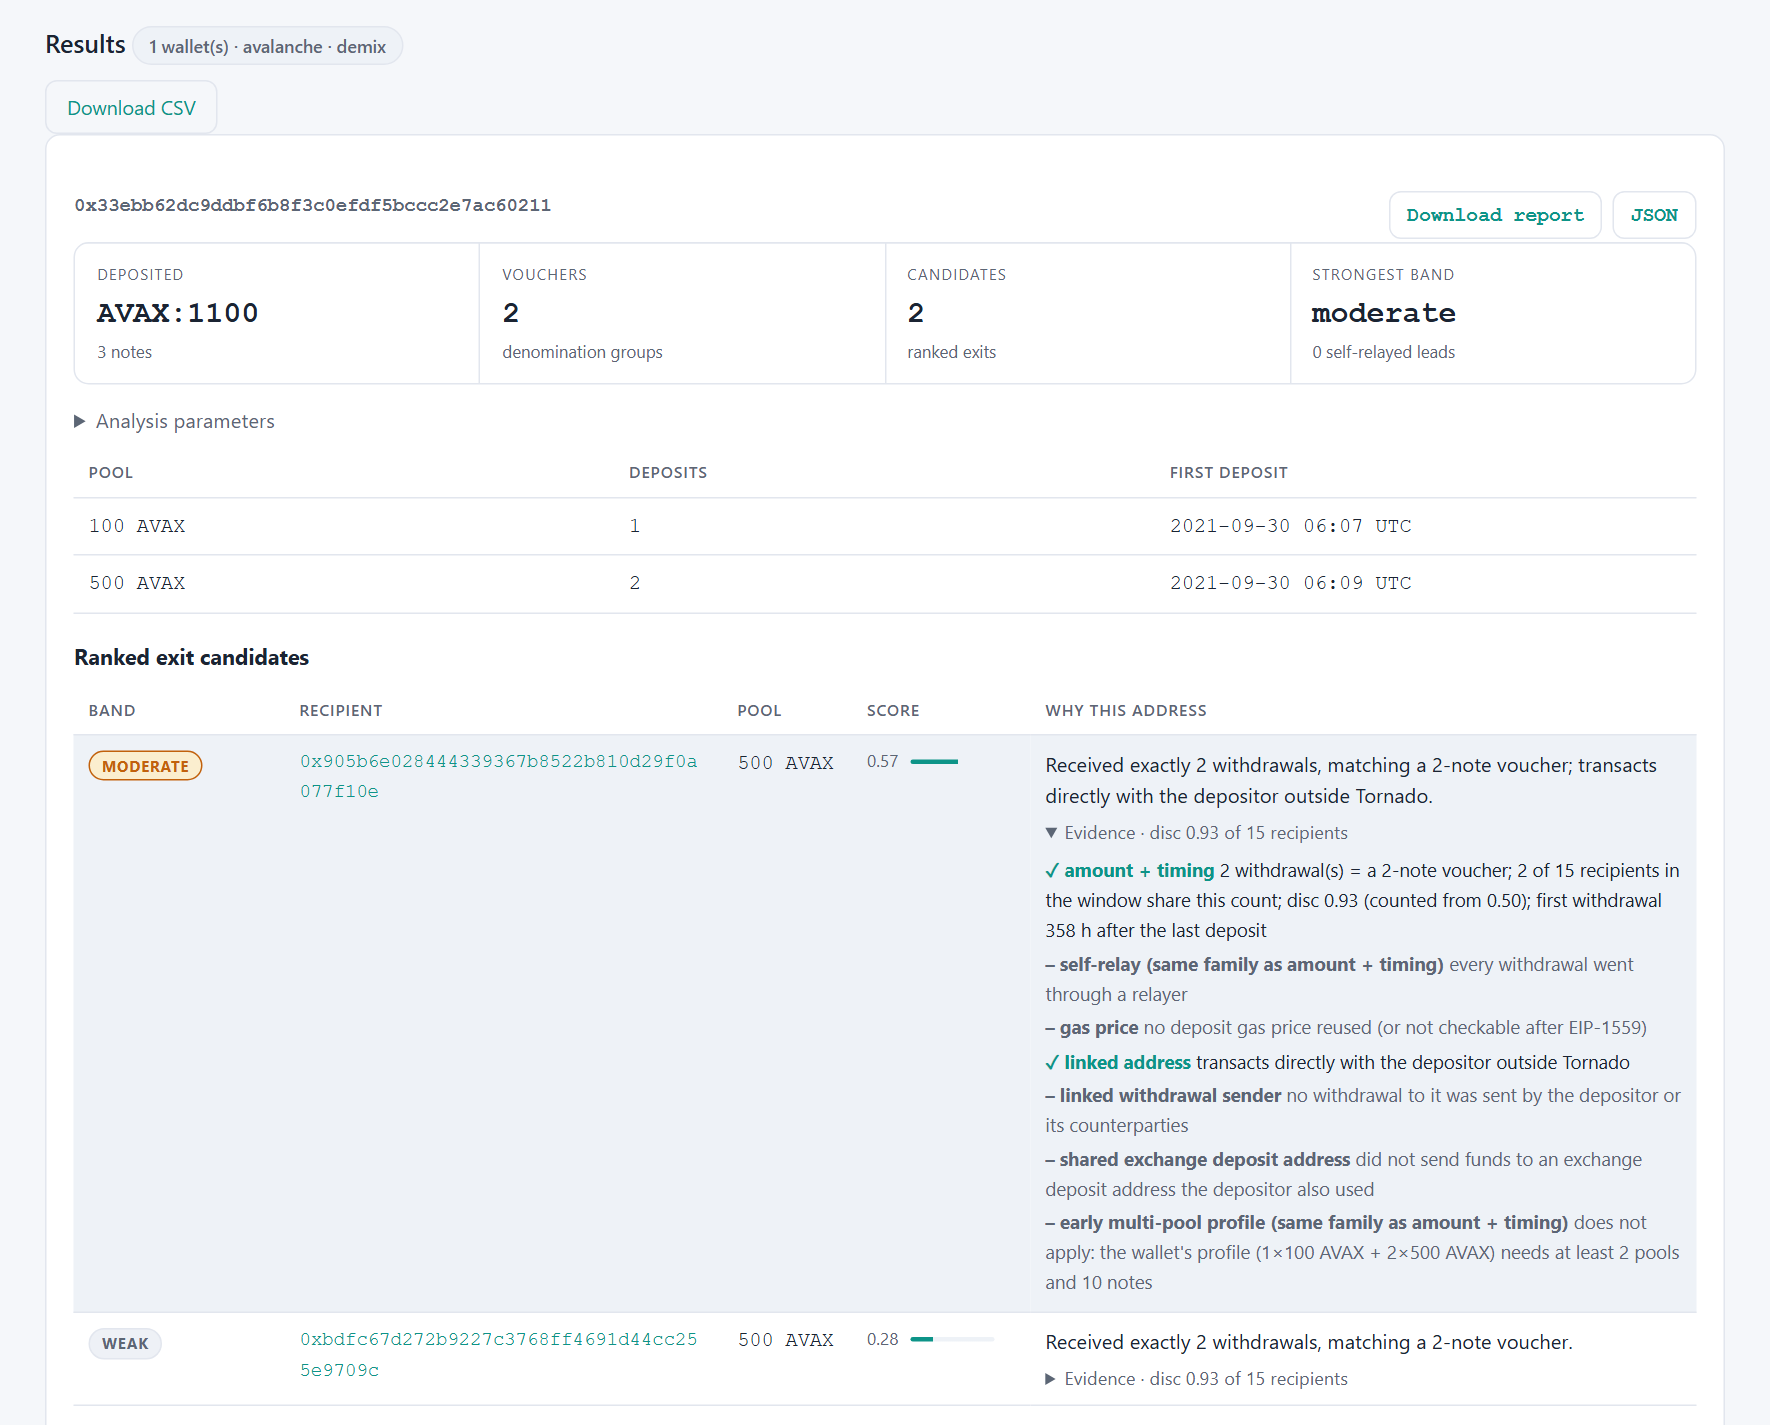
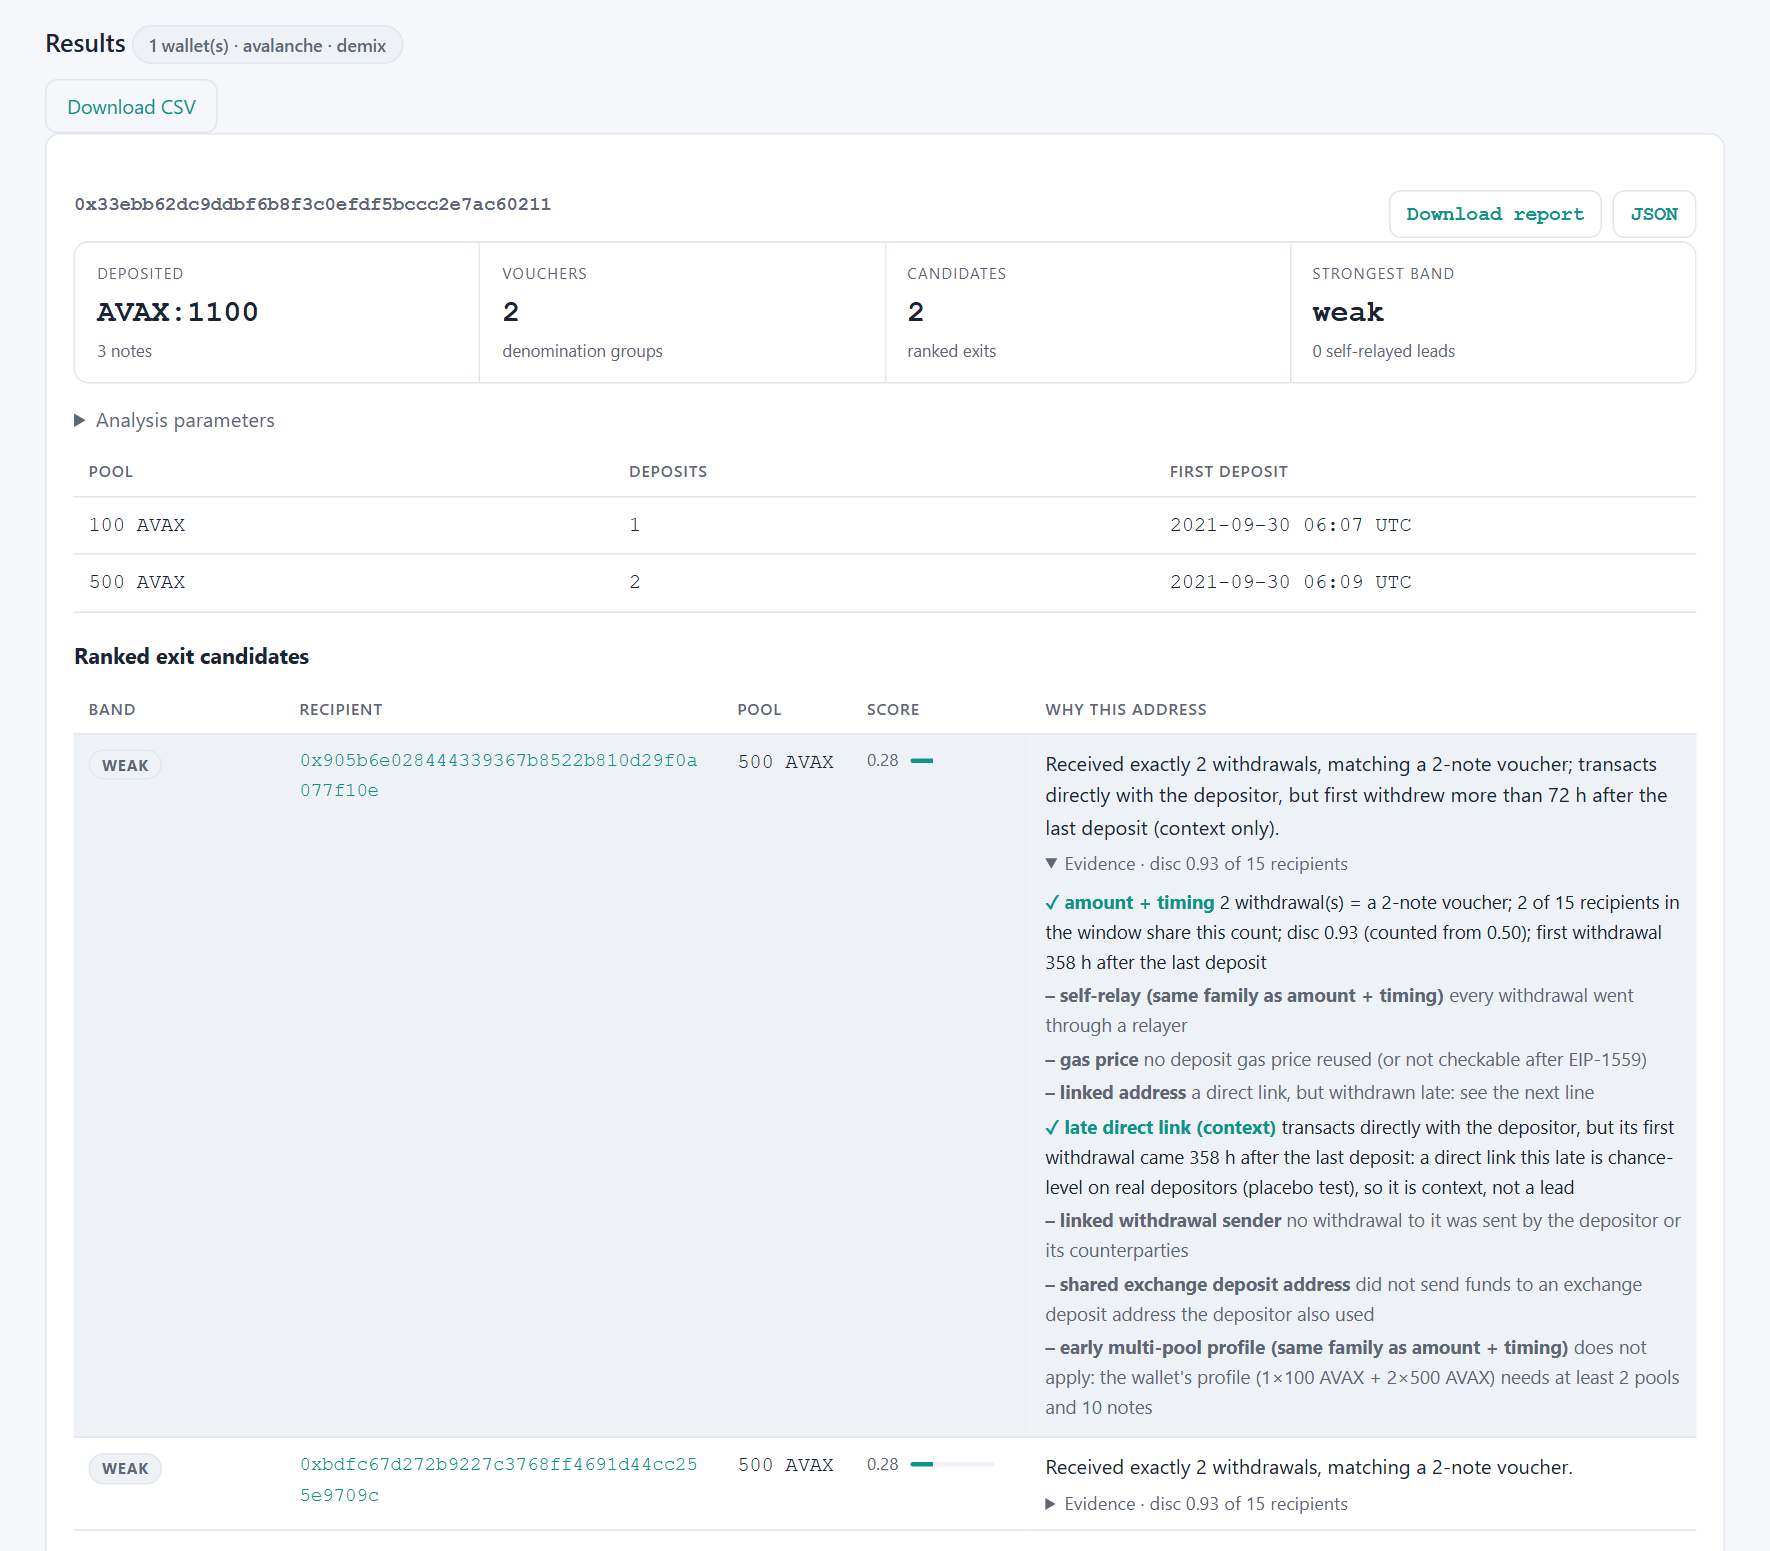
Re-shoot the Avalanche example under 2.17

diff --git a/README.md b/README.md
@@ -260,7 +260,7 @@ contract that paid nothing back, not moved on) and every edge with its attribute
 amount, swaps included; the HTML report, CSV and JSON can be downloaded.
 
 ![demix in the web UI with the evidence panel open](https://raw.githubusercontent.com/prettydeath/TornadoCash-demixer/main/docs/img/demix-evidence.png)
-*A demix run on Avalanche: two vouchers, a `moderate` candidate (count match plus a direct transaction with the depositor, one lead source) and the evidence panel listing every family that was checked.*
+*A demix run on Avalanche: two vouchers and the evidence panel listing every family that was checked. The top candidate transacts directly with the depositor, but its first withdrawal came 358 h after the deposit; since 2.17 such a late direct link is context, so the candidate stays `weak`.*
 
 The UI binds to localhost and has no authentication (forms carry a CSRF token); see
 [SECURITY.md](https://github.com/prettydeath/TornadoCash-demixer/blob/main/SECURITY.md).
